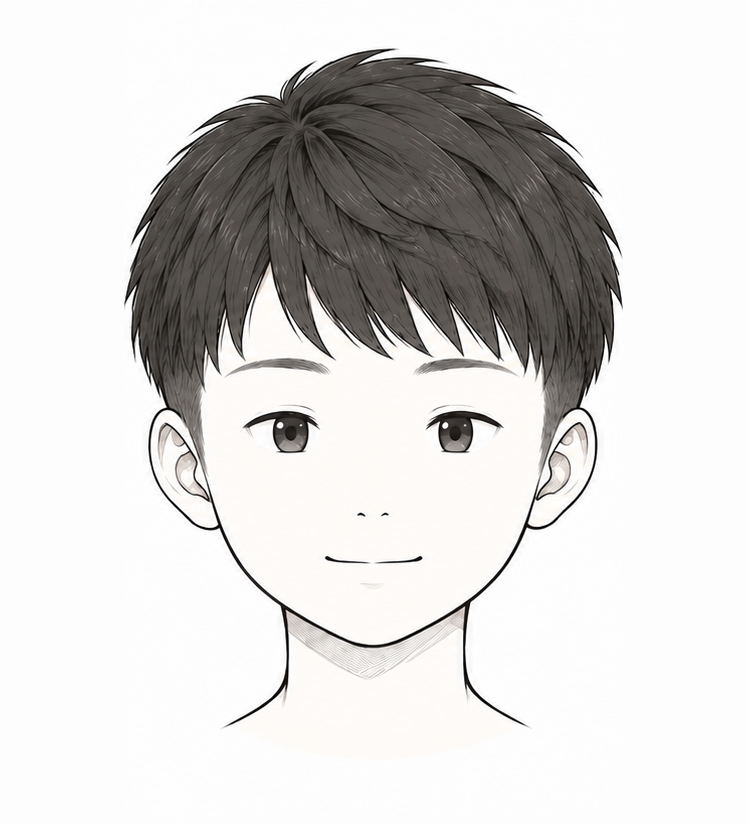
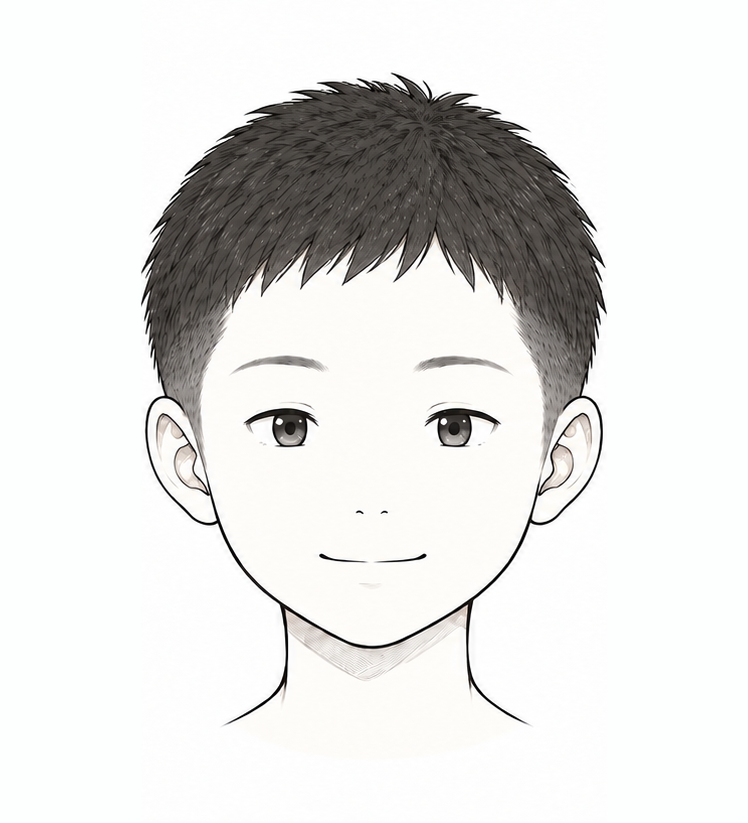
スポーツ刈りの見本イラストを作り直した版に差しかえ
ボウズとツーブロックの中間の長さにし、どちらとも見分けられるようにした。

diff --git a/docs/image-review.md b/docs/image-review.md
@@ -128,4 +128,7 @@ Codexが生成した画像を、髪型データと並べて確認した結果。
 全10髪型を正面・横・後ろで並べて（`scripts/montage-styles.ps1`）確認した。
 
 - **マッシュ（作り直して合格・反映）：** 長めマッシュを参照画像にして作り直した。前髪が水平にそろった丸いきのこ形になり、横流しショートとはっきり見分けられる。長めマッシュとは、耳が完全にかくれない・襟足が短い点で区別できる。
-- **スポーツ刈り（作り直したが不合格・未反映）：** ボウズを参照画像にした結果、トップが伸びず前髪も見えず、ボウズ風とほぼ同じ絵になった（ツーブロックとは離れた）。公開版は前の絵のまま。新しい絵は `img/styles/sports-*.png` に置いてあるが、コミットしていない。
+- **スポーツ刈り（1回目の作り直しは不合格）：** ボウズを参照画像にした結果、トップが伸びず前髪も見えず、ボウズ風とほぼ同じ絵になった（ツーブロックとは離れた）。公開版は前の絵のまま。新しい絵は `img/styles/sports-*.png` に置いてあるが、コミットしていない。
+- **スポーツ刈り（2回目の作り直しで合格・反映）：** ボウズとツーブロックの両方を参照画像にし、「ちょうど中間」を指定した。短い前髪の毛束が見え、トップの厚みはボウズより大きく、ツーブロックより短い。刈り上げにかぶさる段やV字はない。短い髪型5つ（ボウズ・スポーツ刈り・ツーブロック・ソフトモヒカン・アップバング）を並べて、正面と横で見分けられることを確認した（後ろはボウズとの差が小さい）。
+
+**分かったこと：** 1つの参照画像から寄せると、その髪型に寄りすぎる。2つの髪型の中間を狙うときは、両端の2つを参照画像にして「1つ目より長く、2つ目より短く」と指定すると狙いやすい。
